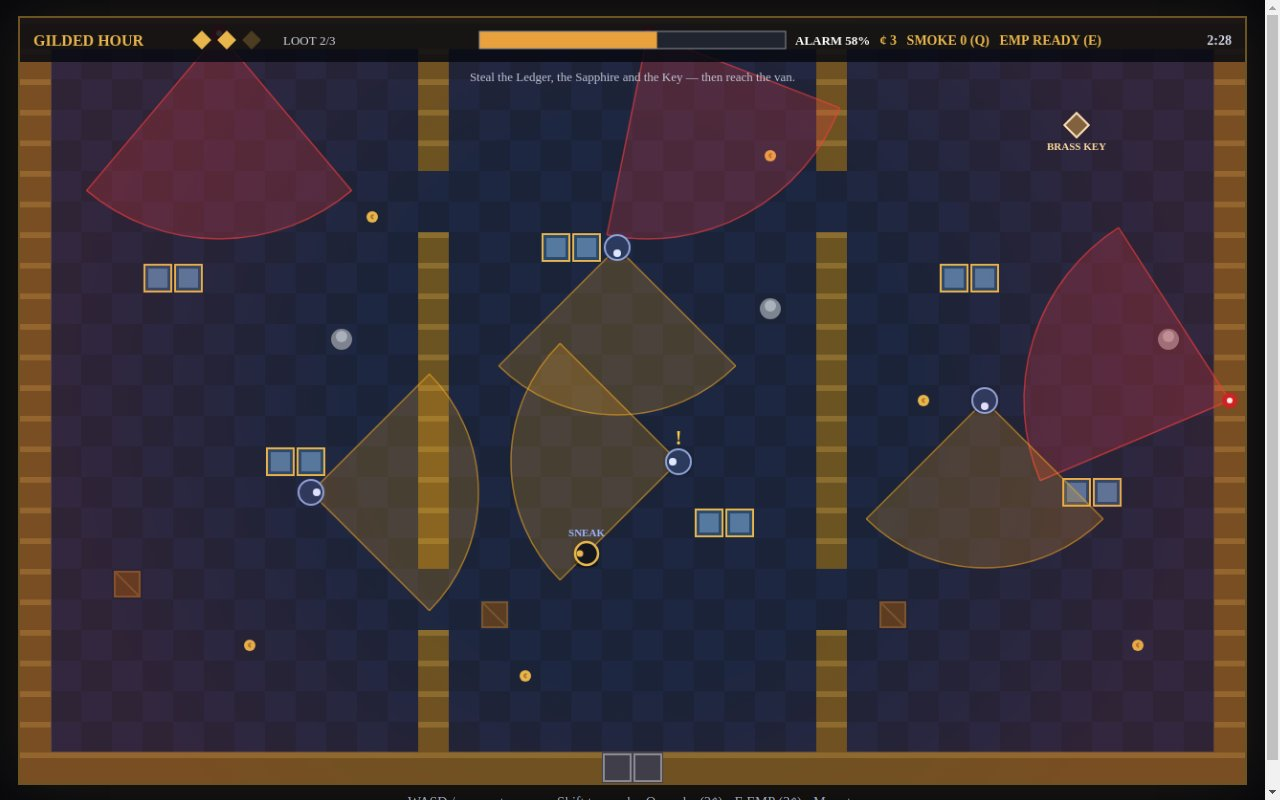
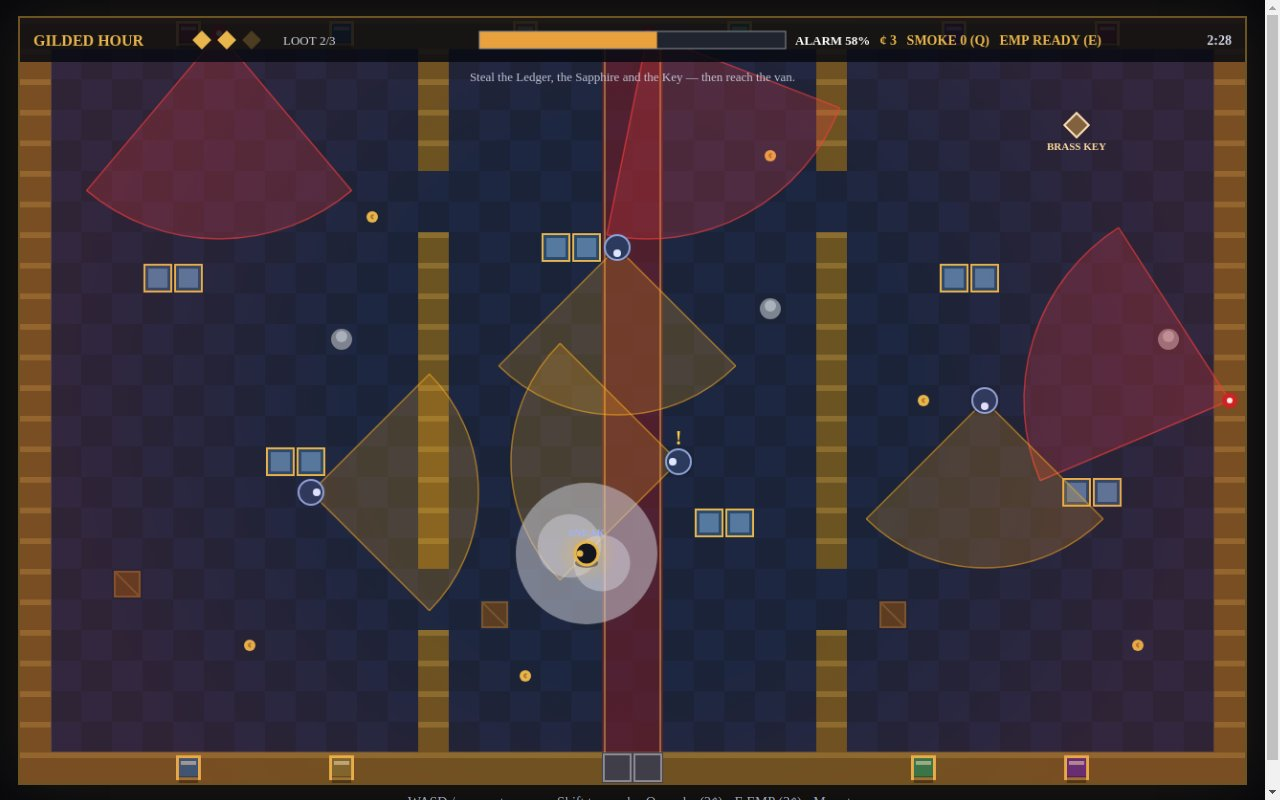
Heist fix r2: title cover, visible thief, museum dressing, smoke in play shot
- Title screen is now the cover shot: the game already had a full
  title screen, the shipped cover was a gameplay frame instead.
- Marlowe gets a soft gold halo + thicker ring so the thief reads at
  contact-sheet size instead of vanishing into the dark floor.
- The museum reads as a museum: red carpet up the middle gallery from
  the van door, framed paintings on the walls.
- Play shot stages the smoke pellet going off at Marlowe's feet.

diff --git a/game/src/render.js b/game/src/render.js
@@ -33,7 +33,9 @@ function drawCone(ctx, x, y, angle, halfAngle, range, fill, edge) {
   ctx.stroke();
 }
 
-/** The marble floor: two dark blues in a checker, plus a gold inlay border. */
+/** The marble floor: two dark blues in a checker, plus a gold inlay border.
+ *  A deep-red carpet runs up the middle gallery from the van door, so the
+ *  entrance reads as a museum at a glance. */
 function drawFloor(ctx) {
   for (let ty = 0; ty < ROWS; ty++) {
     for (let tx = 0; tx < COLS; tx++) {
@@ -41,9 +43,42 @@ function drawFloor(ctx) {
       ctx.fillRect(tx * TILE, ty * TILE, TILE, TILE);
     }
   }
+  ctx.fillStyle = 'rgba(122, 28, 38, 0.55)';
+  ctx.fillRect(19 * TILE, TILE, 2 * TILE, (ROWS - 2) * TILE);
+  ctx.strokeStyle = 'rgba(232, 182, 76, 0.5)';
+  ctx.lineWidth = 2;
+  ctx.beginPath();
+  ctx.moveTo(19 * TILE + 3, TILE);
+  ctx.lineTo(19 * TILE + 3, (ROWS - 1) * TILE);
+  ctx.moveTo(21 * TILE - 3, TILE);
+  ctx.lineTo(21 * TILE - 3, (ROWS - 1) * TILE);
+  ctx.stroke();
   ctx.strokeStyle = 'rgba(232, 182, 76, 0.25)';
   ctx.lineWidth = 2;
   ctx.strokeRect(TILE, TILE, VIEW_W - TILE * 2, VIEW_H - TILE * 2);
+}
+
+/** Framed paintings on the north and south walls: the museum, not a grid. */
+const PAINTINGS = [
+  { x: 5, y: 0, hue: '#7a2e2e' }, { x: 10, y: 0, hue: '#2e5a7a' }, { x: 16, y: 0, hue: '#7a6a2e' },
+  { x: 23, y: 0, hue: '#2e7a4a' }, { x: 30, y: 0, hue: '#5a2e7a' }, { x: 35, y: 0, hue: '#7a2e2e' },
+  { x: 5, y: 24, hue: '#2e5a7a' }, { x: 10, y: 24, hue: '#7a6a2e' },
+  { x: 29, y: 24, hue: '#2e7a4a' }, { x: 34, y: 24, hue: '#5a2e7a' },
+];
+
+function drawPaintings(ctx) {
+  for (const painting of PAINTINGS) {
+    const x = painting.x * TILE + 3;
+    const y = painting.y * TILE + 3;
+    ctx.fillStyle = GOLD;
+    ctx.fillRect(x, y, TILE - 6, TILE - 6);
+    ctx.fillStyle = painting.hue;
+    ctx.fillRect(x + 3, y + 3, TILE - 12, TILE - 12);
+    ctx.fillStyle = 'rgba(255, 240, 200, 0.5)';
+    ctx.fillRect(x + 5, y + 6, TILE - 16, 4);
+    ctx.fillStyle = 'rgba(0, 0, 0, 0.35)';
+    ctx.fillRect(x + 3, y + TILE - 10, TILE - 12, 7);
+  }
 }
 
 /** Walls in brass, cover in glass, wood and stone. */
@@ -202,8 +237,17 @@ function drawGuards(ctx, guards) {
   }
 }
 
-/** Marlowe, the thief: a dark figure with a gold ring, facing its heading. */
+/** Marlowe, the thief: a dark figure with a gold ring, facing its heading.
+ *  A soft gold halo keeps Marlowe visible against the dark floor, even
+ *  shrunk to a contact sheet. */
 function drawThief(ctx, thief) {
+  const halo = ctx.createRadialGradient(thief.x, thief.y, 4, thief.x, thief.y, 32);
+  halo.addColorStop(0, 'rgba(232, 182, 76, 0.38)');
+  halo.addColorStop(1, 'rgba(232, 182, 76, 0)');
+  ctx.fillStyle = halo;
+  ctx.beginPath();
+  ctx.arc(thief.x, thief.y, 32, 0, Math.PI * 2);
+  ctx.fill();
   ctx.fillStyle = 'rgba(0, 0, 0, 0.4)';
   ctx.beginPath();
   ctx.ellipse(thief.x, thief.y + 10, 12, 5, 0, 0, Math.PI * 2);
@@ -213,7 +257,7 @@ function drawThief(ctx, thief) {
   ctx.arc(thief.x, thief.y, 12, 0, Math.PI * 2);
   ctx.fill();
   ctx.strokeStyle = GOLD;
-  ctx.lineWidth = 2.5;
+  ctx.lineWidth = 3;
   ctx.stroke();
   ctx.fillStyle = GOLD;
   ctx.beginPath();
@@ -400,6 +444,7 @@ export function drawGame(ctx, state) {
   ctx.clearRect(0, 0, VIEW_W, VIEW_H);
   drawFloor(ctx);
   drawWallsAndCover(ctx, state.grid);
+  drawPaintings(ctx);
   drawExit(ctx, state);
   drawLoot(ctx, state.loot, state.nowSeconds);
   drawCoins(ctx, state.coinSpots);

diff --git a/game/src/main.js b/game/src/main.js
@@ -224,6 +224,8 @@ function applyScene(state, scene) {
     state.loot[1].taken = true;
     state.thief.sneaking = true;
     placeThief(18, 17, Math.PI);
+    // The smoke pellet just went off at Marlowe's feet: the tool, visible.
+    state.smokeClouds.push({ x: 18 * TILE + TILE / 2, y: 17 * TILE + TILE / 2, radius: TUNE.smokeRadius, bornAt: 2.4, diesAt: 2.4 + TUNE.smokeSeconds });
     setGuardPose(0, 9, 15, 0, false);
     setGuardPose(1, 21, 14, Math.PI, true);
     setGuardPose(2, 31, 12, Math.PI / 2, false);
